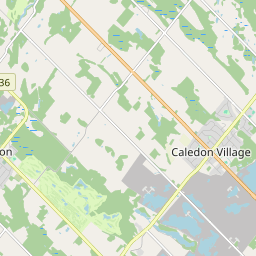
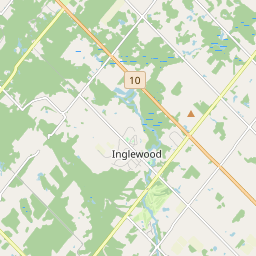
Fix bounding  box extents to be more centered around view point

diff --git a/impl/math.c b/impl/math.c
@@ -14,6 +14,9 @@
 #define DEG_2_RAD(DEGREES) (DEGREES * M_PI / 180.0)
 #define RAD_2_DEG(RADIANS) (RADIANS * (180 / M_PI))
 
+#define EARTH_CIR_METERS 40075016.686
+const double DEGREES_PER_METER = 360 / EARTH_CIR_METERS;
+
 void 
 d_latlng_to_tilenum(DLatLng latlng, int zoom, int* x, int* y)
 {
@@ -35,6 +38,33 @@ d_tilenum_to_latlng(int x, int y, int zoom, DLatLng* latlng)
     latlng->lng = lon_deg;
 }
 
+void
+d_latlng_to_bbox(DLatLng latlng, int zoom, DBBox* bbox)
+{
+    int width, height;
+    height = width = 0;
+    d_app_getwindowsize(&width, &height);
+
+    double metersPerPixelEW = EARTH_CIR_METERS / pow(2,zoom + 8);
+    double metersPerPixelNS = EARTH_CIR_METERS / pow(2, zoom + 8) * cos(DEG_2_RAD(latlng.lat));
+
+    double shiftMetersEW = width/2  * metersPerPixelEW;
+    double shiftMetersNS = height/2 * metersPerPixelNS;
+
+    double shiftDegreesEW = shiftMetersEW * DEGREES_PER_METER;
+    double shiftDegreesNS = shiftMetersNS * DEGREES_PER_METER;
+
+    DLatLng min;
+    DLatLng max;
+    min.lat = latlng.lat + shiftDegreesNS;
+    min.lng = latlng.lng - shiftDegreesEW;
+    max.lat = latlng.lat - shiftDegreesNS;
+    max.lng = latlng.lng + shiftDegreesEW;
+    *bbox = bbox(min,max);
+
+}
+
+/*
 void 
 d_latlng_to_bbox(DLatLng latlng, int zoom, DBBox* bbox)
 {
@@ -42,7 +72,6 @@ d_latlng_to_bbox(DLatLng latlng, int zoom, DBBox* bbox)
     int width, height;
     height = width = 0;
     d_app_getwindowsize(&width, &height);
-
 
     int xtile, ytile;
     d_latlng_to_tilenum(latlng,zoom,&xtile, &ytile);
@@ -56,3 +85,4 @@ d_latlng_to_bbox(DLatLng latlng, int zoom, DBBox* bbox)
     d_tilenum_to_latlng(xe,ye,zoom,&latlng_e);
     *bbox = bbox(latlng_s, latlng_e);
 }
+*/

diff --git a/impl/map.c b/impl/map.c
@@ -74,7 +74,7 @@ d_map_render(DMapHandle handle)
     int xmax, ymax;
     d_latlng_to_tilenum(bbox.min,handle->zoom, &xmin, &ymin);
     d_latlng_to_tilenum(bbox.max,handle->zoom, &xmax, &ymax);
-    D_LOG_INFO("Bounding box: %f, %f,%f,%f", bbox.min.lng,bbox.min.lat,bbox.max.lng,bbox.max.lat);
+    D_LOG_INFO("Bounding box: %f, %f,%f,%f", bbox.min.lat,bbox.min.lng,bbox.max.lat,bbox.max.lng);
 
     
     

diff --git a/impl/app/sdl/app_sdl.c b/impl/app/sdl/app_sdl.c
@@ -8,9 +8,6 @@
 #include <drumlin/logging.h>
 
 static SDL_Window* window;
-//static SDL_Surface* surface;
-
-
 
 int 
 drumlin_start(DAppInitDesc* desc)
